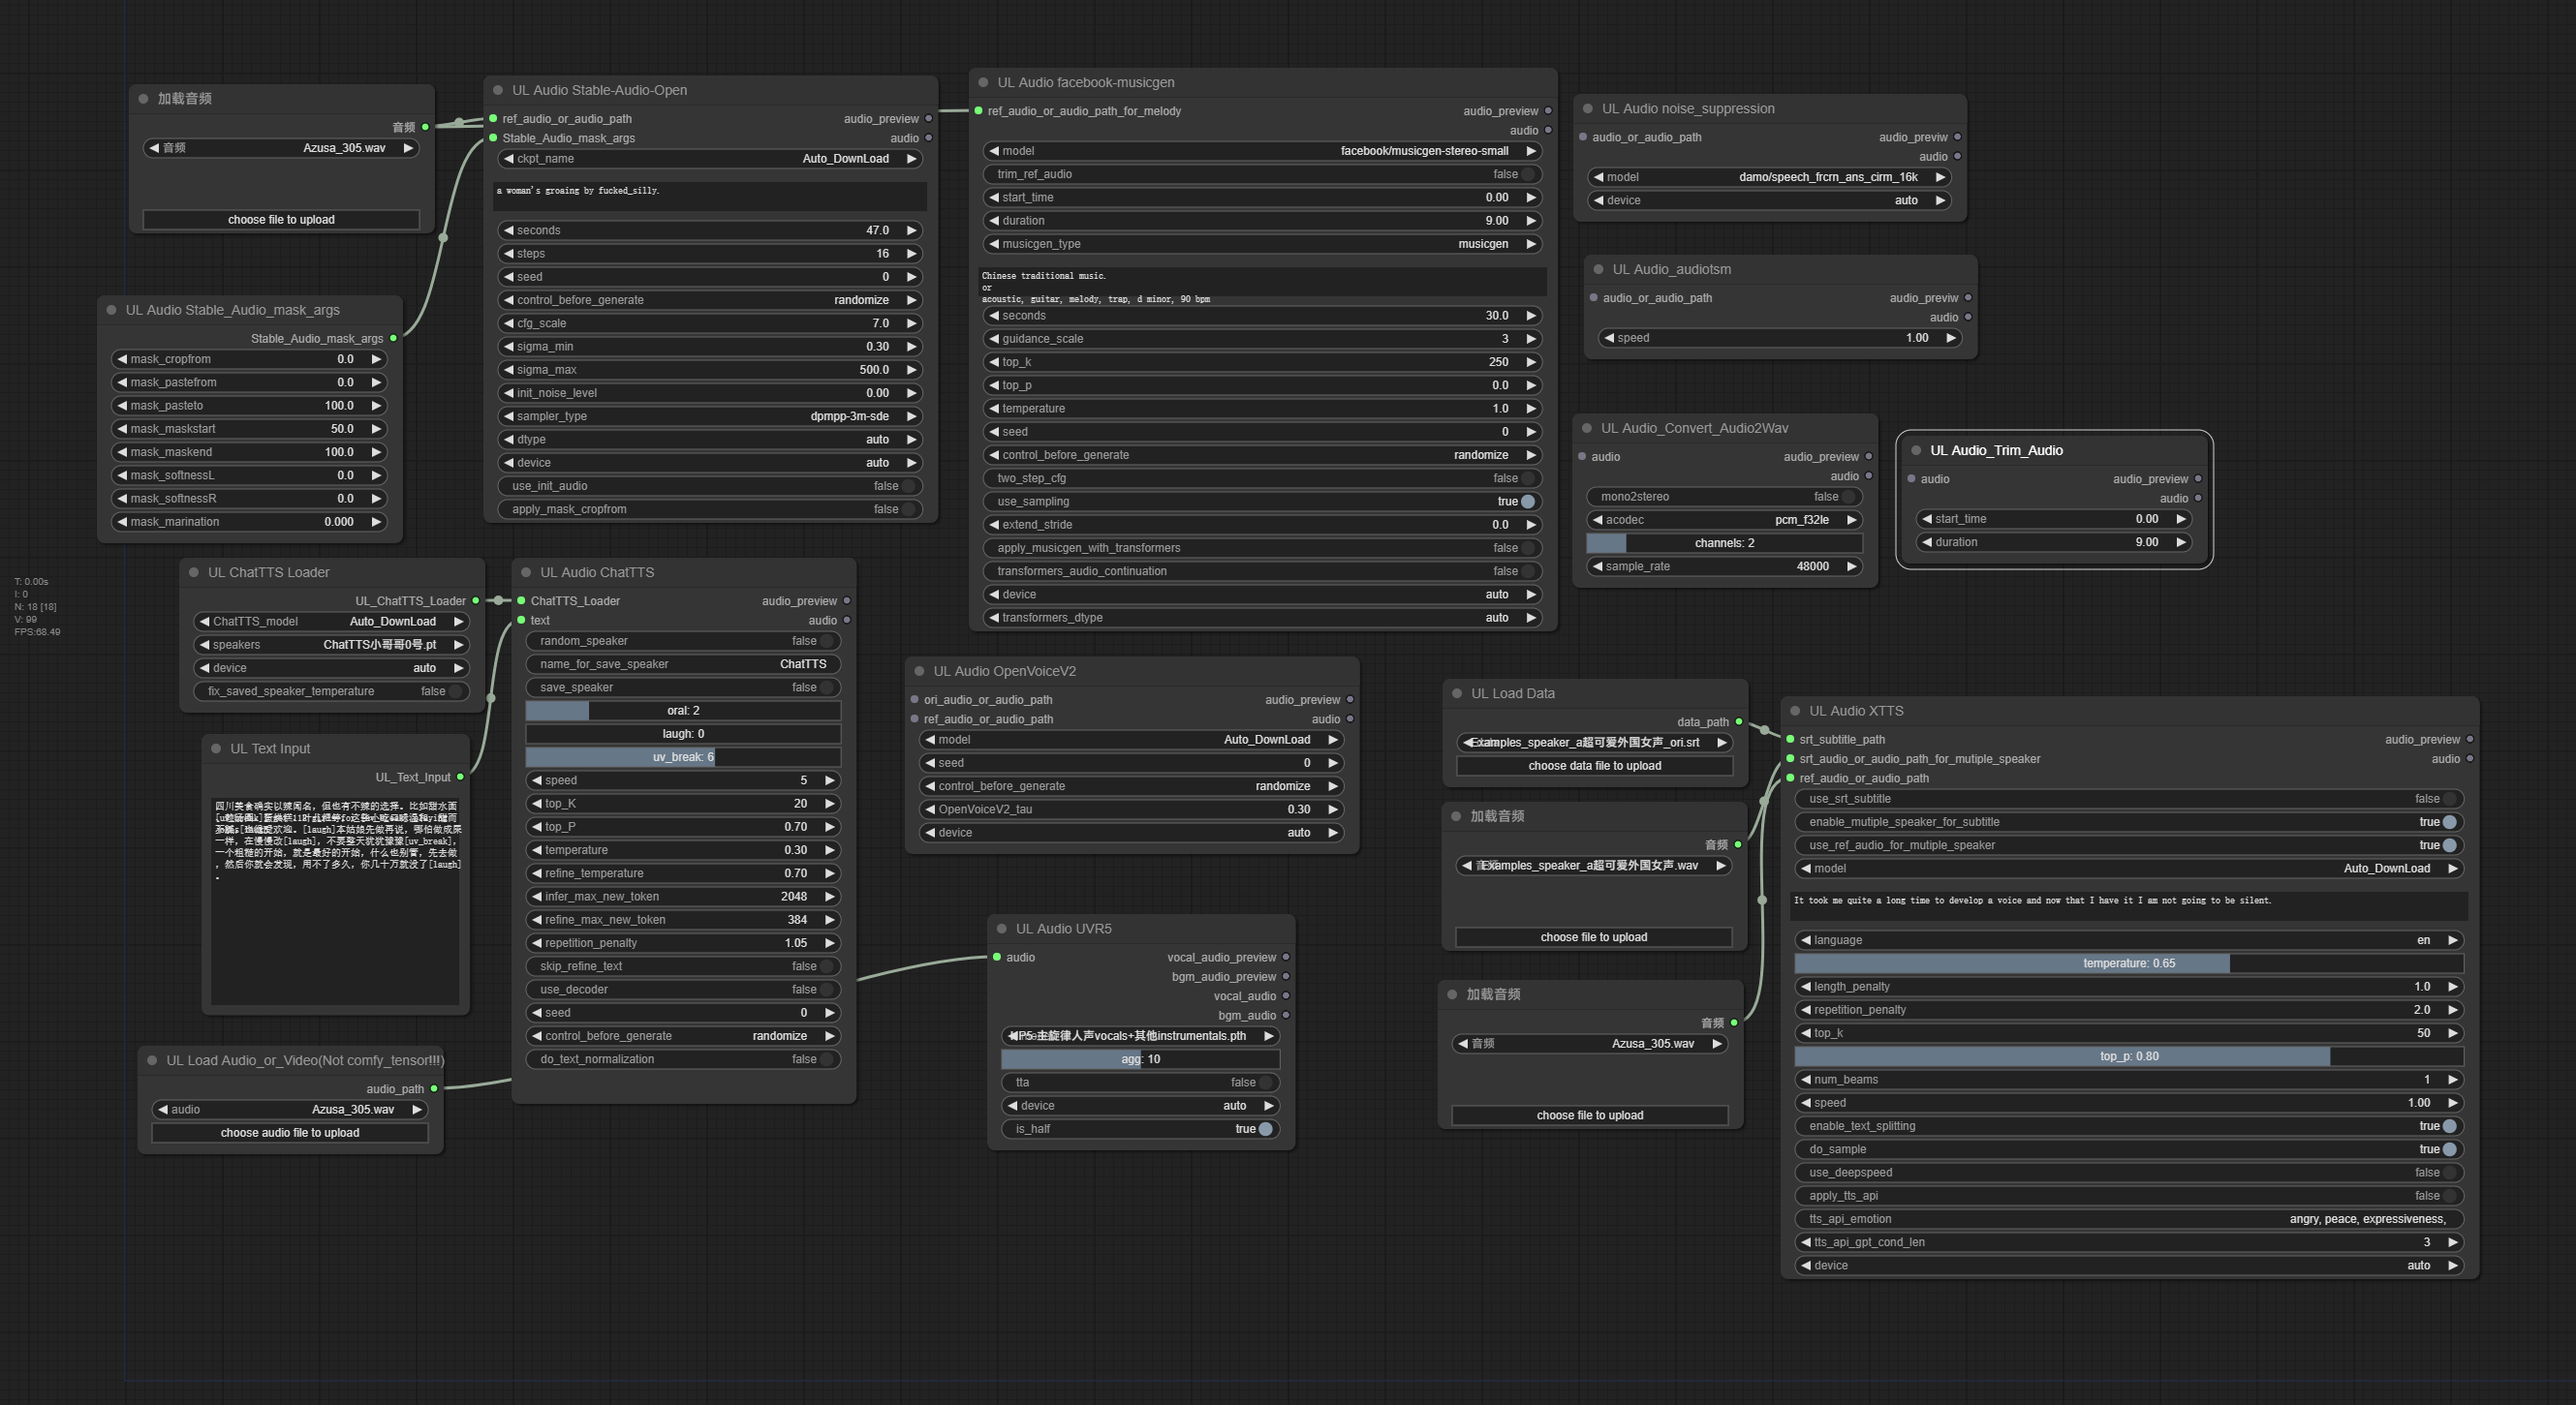
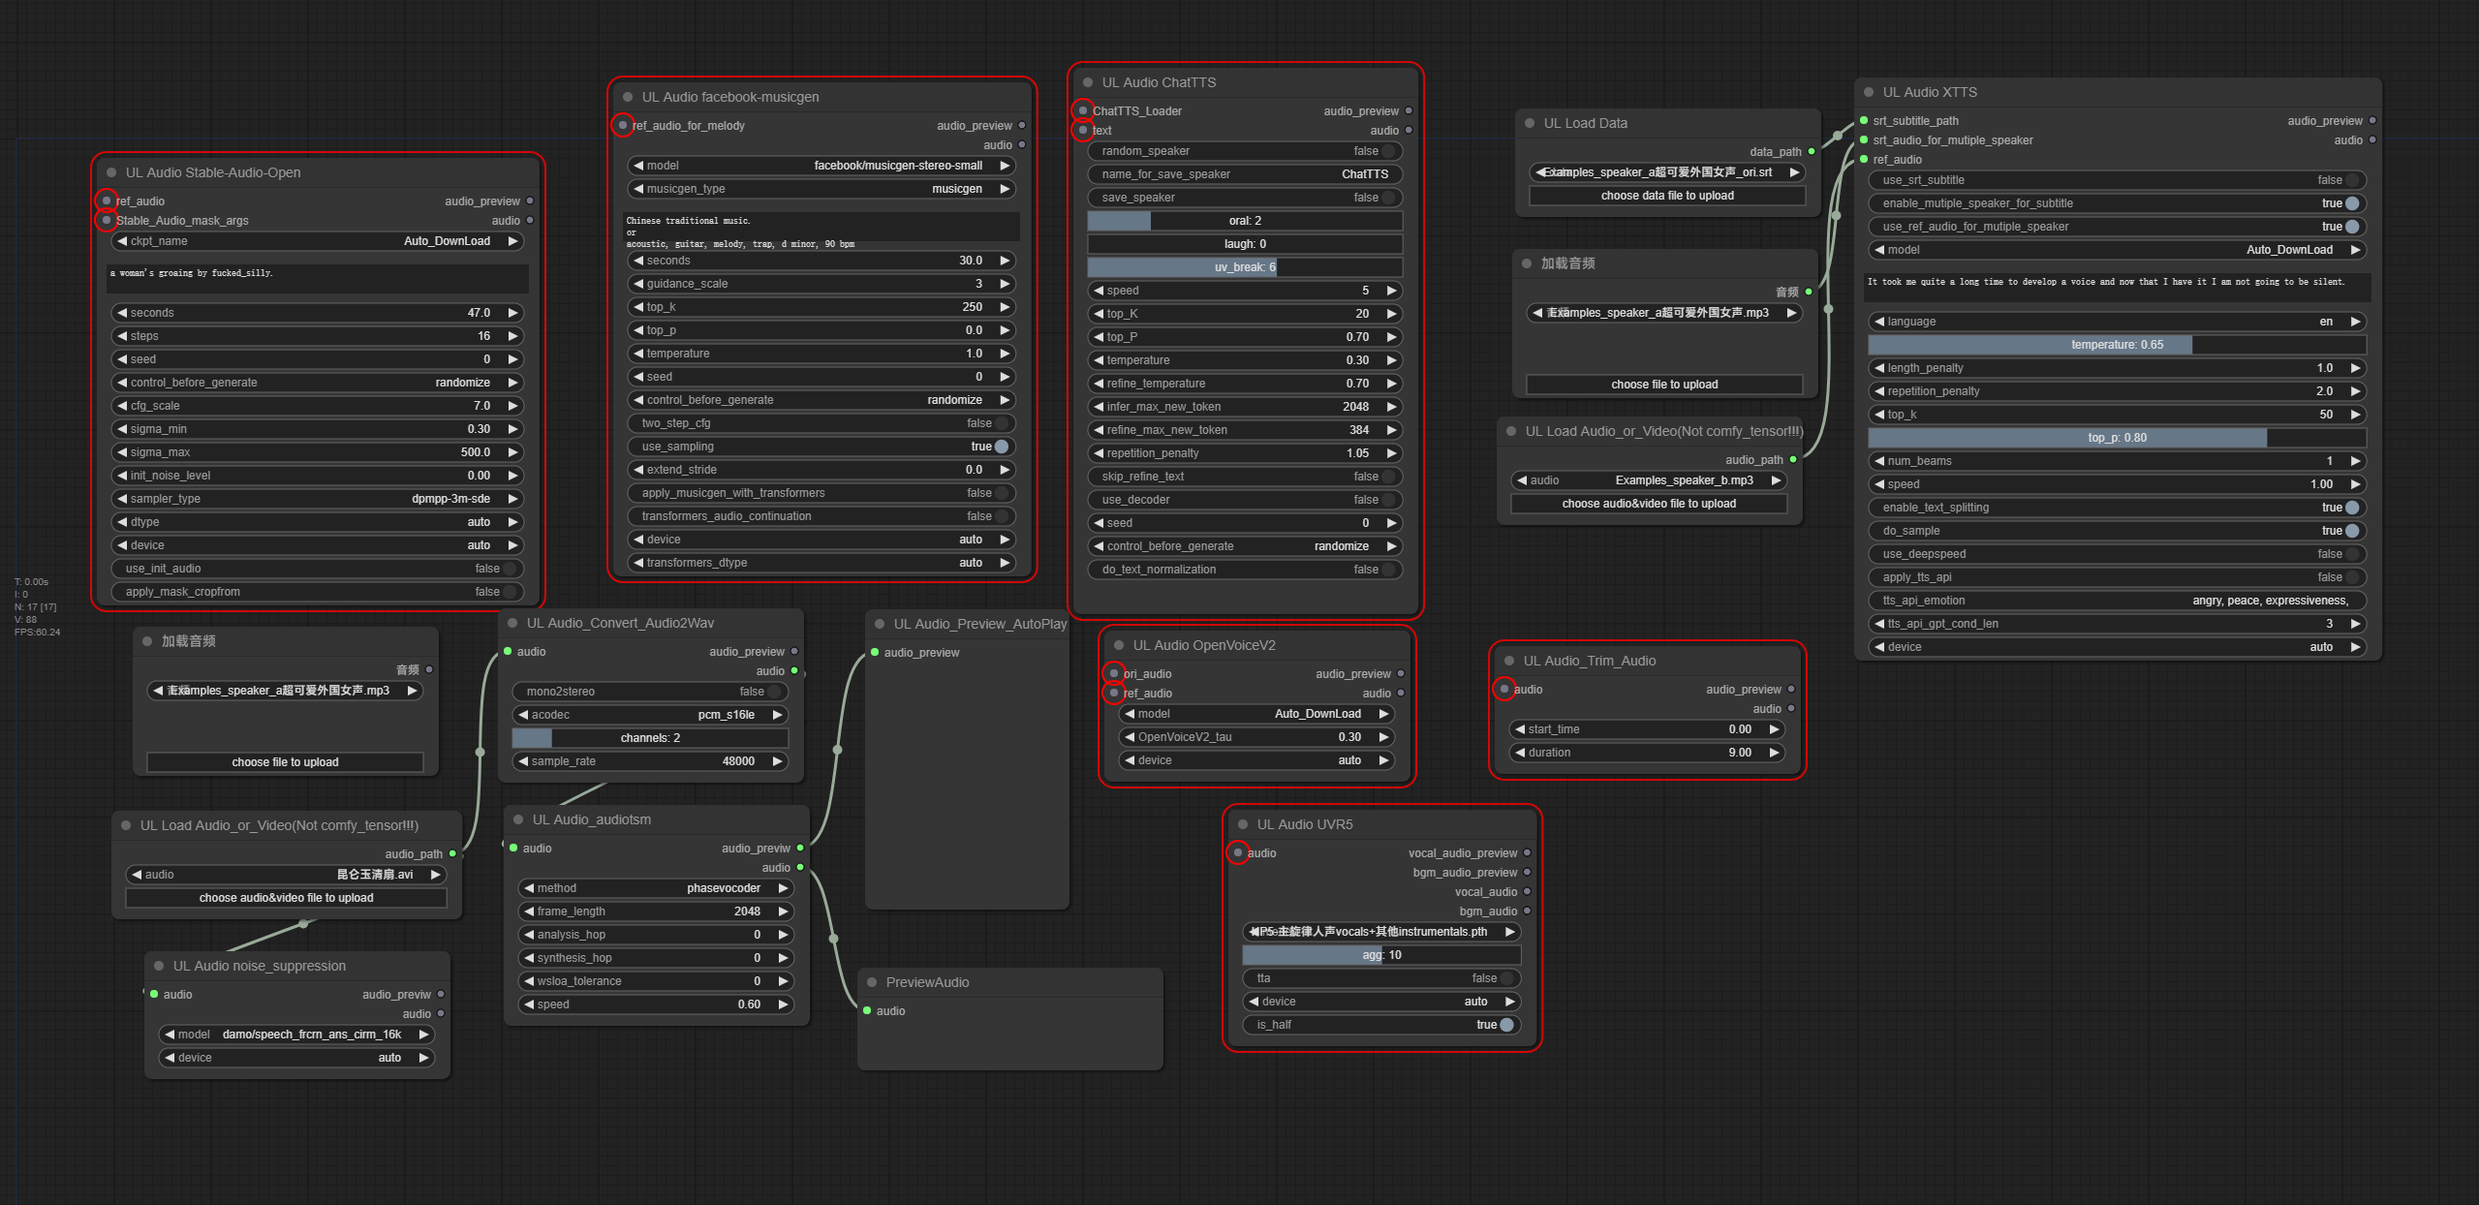
Update audio workflow and audiotsm node.更新audio工作流和audiotsm节点。

Changed region(s): [[0.0, 0.0305, 0.957, 0.9164], [0.4013, 0.6415, 0.4322, 0.672]]

diff --git a/Audio/nodes.py b/Audio/nodes.py
@@ -1,6 +1,4 @@
 import os
-import audiotsm.io
-import audiotsm.io.wav
 import torch
 import time
 import shutil
@@ -9,7 +7,7 @@ import numpy as np
 import folder_paths
 from pydub import AudioSegment
 import audiotsm.wsola
-import audiotsm.io.wav
+from audiotsm.io.wav import WavReader, WavWriter
 # import time
 from ..UL_common.common import is_module_imported, get_device_by_name, get_dtype_by_name
 # from huggingface_hub import snapshot_download as hg_snapshot_download
@@ -524,8 +522,8 @@ class UL_Audio_XTTS:
             
             clone_path = f"{temp_folder}/cloned_{wav_name}"
             
-            reader = audiotsm.io.wav.WavReader(tmp_path)
-            writer = audiotsm.io.wav.WavWriter(clone_path,channels=reader.channels, samplerate=reader.samplerate)
+            reader = WavReader(tmp_path)
+            writer = WavWriter(clone_path,channels=reader.channels, samplerate=reader.samplerate)
             
             wsloa = audiotsm.wsola(channels=reader.channels,speed=ratio)
             wsloa.run(reader=reader,writer=writer)
@@ -919,6 +917,11 @@ class UL_Audio_audiotsm:
         return {
             "required": {
                 "audio": ("AUDIO",),
+                "method": (["phasevocoder", "wsloa", "ola"],{"default": "wsloa"}), 
+                "frame_length":  ("INT", {"default": 2048, "min": 0, "max": np.iinfo(np.int32).max}), 
+                "analysis_hop":  ("INT", {"default": 0, "min": 0, "max": np.iinfo(np.int32).max}), 
+                "synthesis_hop":  ("INT", {"default": 0, "min": 0, "max": np.iinfo(np.int32).max}), 
+                "wsloa_tolerance":  ("INT", {"default": 0, "min": 0, "max": np.iinfo(np.int32).max}), 
                 "speed": ("FLOAT" , {"default": 1, "min": 0, "max": 10000000, "step": 0.01}),
             },
         }
@@ -933,18 +936,40 @@ class UL_Audio_audiotsm:
     OUTPUT_IS_LIST = (False,False, )
     OUTPUT_NODE = True
     
-    def UL_Audio_audiotsm(self, audio, speed): 
-        from audiotsm import phasevocoder
-        from audiotsm.io.wav import WavReader, WavWriter
-        audio = audio_file_or_audio_tensor(audio)
+    def UL_Audio_audiotsm(self, audio, speed, method, frame_length, analysis_hop, synthesis_hop, wsloa_tolerance): 
+        """
+        '--speed', type=float, default=1: help="Set the speed ratio (e.g 0.5 to play at half speed)".
+        '--method', type=str, default="wsola": help="Select the TSM method (ola, wsola, or phasevocoder)".
+        '--frame-length', metavar='N', type=int, default=None: help="Set the frame length to N."
+        '--analysis-hop', metavar='N', type=int, default=None: help="Set the analysis hop to N."
+        '--synthesis-hop', metavar='N', type=int, default=None: help="Set the synthesis hop to N."
+        '--tolerance', metavar='N', type=int, default=None: help="Set the tolerance to N (only used when method is set to wsola)."
+        '--phase-locking', metavar='S', type=str, default=None: help=("Set the phase locking strategy (none or identity; ""only used when method is set to phasevocoder).")
+        '--output', metavar='FILENAME', type=str, default=None: help="Write the output in the wav file FILENAME.")
+        'input_filename', metavar='INPUT_FILENAME', type=str: help="The audio input file")
+        """
+        if analysis_hop == 0:
+            analysis_hop = None
+        if synthesis_hop == 0:
+            synthesis_hop = None
+        if wsloa_tolerance == 0:
+            wsloa_tolerance = None
         tmp_output_path = os.path.join(comfy_temp_dir, f'UL_audio_audiotsm_{time.time()}.wav')
         if ('waveform' in audio and 'sample_rate' in audio) or ('.wav' not in audio):
+            audio = audio_file_or_audio_tensor(audio)
             audio = convert_audio_or_video2wav(keep_info=False, input_audio=audio, acodec='pcm_s16le', channels=2, sample_rate='48000')
             
         with WavReader(audio) as reader:
             with WavWriter(tmp_output_path, reader.channels, reader.samplerate) as writer:
-                tsm = phasevocoder(reader.channels, speed=speed)
-                tsm.run(reader, writer)
+                if method == 'phasevocoder':
+                    phasevocoder = audiotsm.phasevocoder(reader.channels, speed=speed, frame_length=frame_length, analysis_hop=analysis_hop, synthesis_hop=synthesis_hop)
+                    phasevocoder.run(reader, writer)
+                elif method == 'wsloa':
+                    wsloa = audiotsm.wsola(channels=reader.channels,speed=speed, frame_length=frame_length, analysis_hop=analysis_hop, synthesis_hop=synthesis_hop, tolerance=wsloa_tolerance)
+                    wsloa.run(reader=reader,writer=writer)
+                else:
+                    ola = audiotsm.ola(channels=reader.channels,speed=speed, frame_length=frame_length, analysis_hop=analysis_hop, synthesis_hop=synthesis_hop)
+                    ola.run(reader=reader,writer=writer)
                 
         preview_audio_path = os.path.join(output_dir, 'audio', 'UL_audio_audiotsm.wav')
         shutil.copy(tmp_output_path, preview_audio_path)

diff --git a/Audio/utils.py b/Audio/utils.py
@@ -750,41 +750,9 @@ def audio_tensor2audio_file(audio_tensor):
             f.write(buff.getbuffer())
     return(save_audio_temp_dir)
 
-def convert_audio_or_video2wav(keep_info=bool, acodec='', input_audio='', channels='', sample_rate=''):
+def convert_audio_or_video2wav(keep_info=None, acodec=None, input_audio=None, channels=None, sample_rate=None):
     output_audio = os.path.join(comfy_temp_dir, f'ffmpeg_converted_audio_{time.time()}.wav')
-    """
-    acodec:
-        pcm_alaw            PCM A-law
-        pcm_f32be           PCM 32-bit floating-point big-endian
-        pcm_f32le           PCM 32-bit floating-point little-endian
-        pcm_f64be           PCM 64-bit floating-point big-endian
-        pcm_f64le           PCM 64-bit floating-point little-endian
-        pcm_mulaw           PCM mu-law
-        pcm_s16be           PCM signed 16-bit big-endian
-        pcm_s16le           PCM signed 16-bit little-endian
-        pcm_s24be           PCM signed 24-bit big-endian
-        pcm_s24le           PCM signed 24-bit little-endian
-        pcm_s32be           PCM signed 32-bit big-endian
-        pcm_s32le           PCM signed 32-bit little-endian
-        pcm_s8              PCM signed 8-bit
-        pcm_u16be           PCM unsigned 16-bit big-endian
-        pcm_u16le           PCM unsigned 16-bit little-endian
-        pcm_u24be           PCM unsigned 24-bit big-endian
-        pcm_u24le           PCM unsigned 24-bit little-endian
-        pcm_u32be           PCM unsigned 32-bit big-endian
-        pcm_u32le           PCM unsigned 32-bit little-endian
-        pcm_u8              PCM unsigned 8-bit
-    sample_rate:
-        '16000'
-        '24000'
-        '32000'
-        '44100'
-        '48000'
-    channels:
-        1
-        2
-    """
-    if keep_info == True:
+    if keep_info:
         ffmpeg.input(input_audio).output(output_audio).run()
     else:
         (
